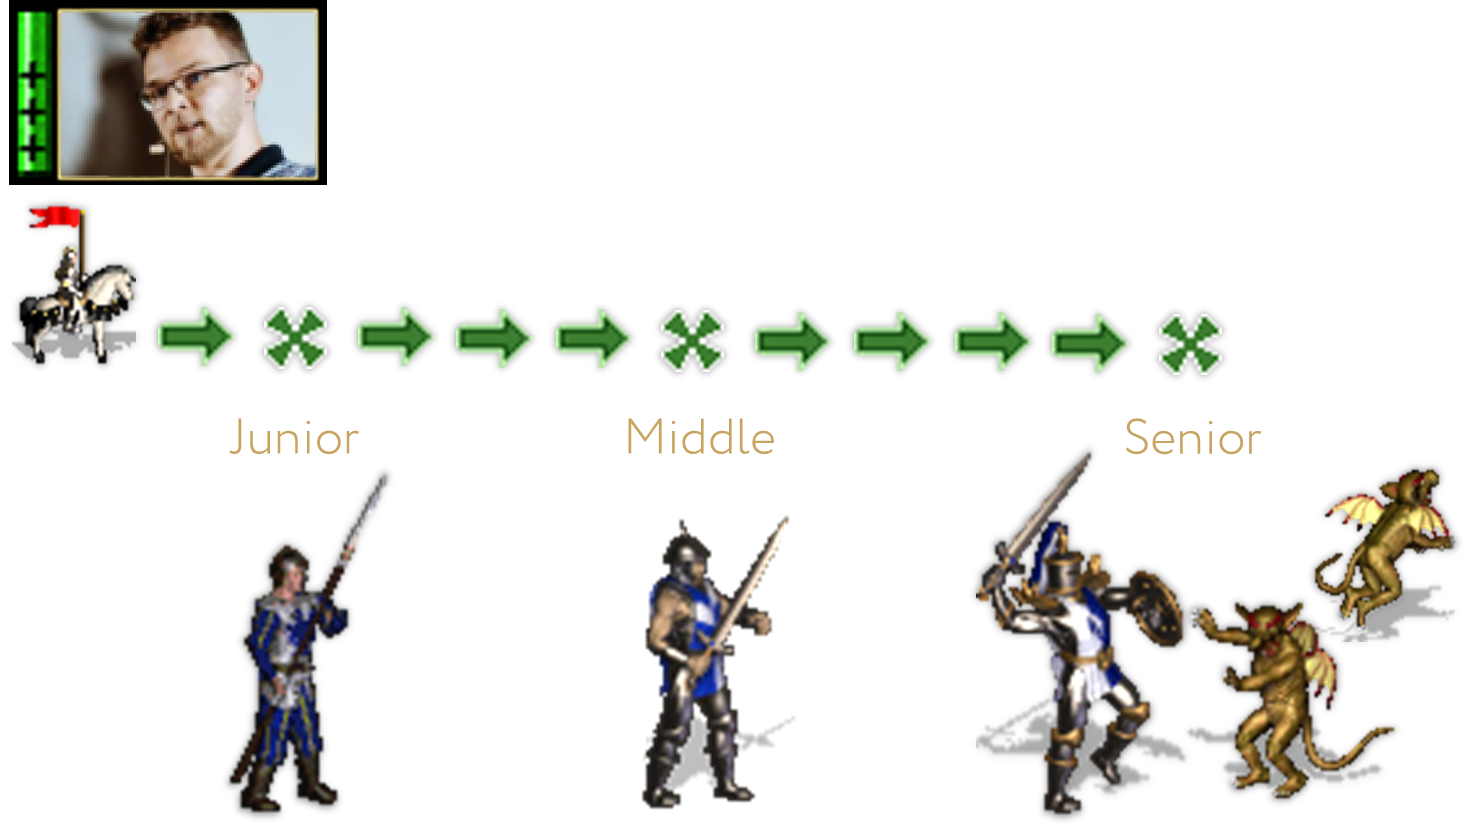
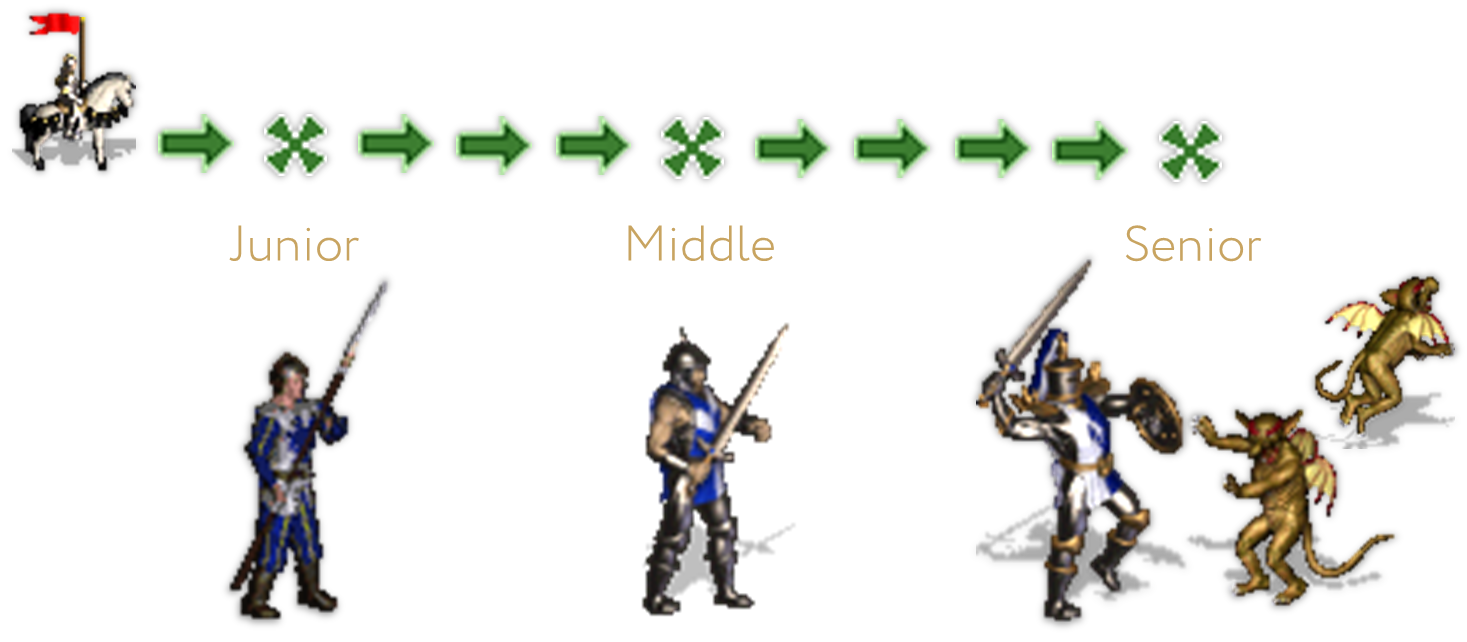
Playing with sprites.

Changed region(s): [[0.0, 0.0, 1.0, 0.9969], [0.4294, 0.4984, 0.5521, 0.9657]]

diff --git a/README.md b/README.md
@@ -1,3 +1,7 @@
+
+<h2><img align='center' src="./img/avatar-plus-plus-plus.png" width="100"> Hi, I'm Alex!</h2>
+
 ![](./img/my-way2.png)
+
 
 &ast; fyi, these nice images are from the best video game ever made: [**Heroes of Might and Magic III**](https://www.gog.com/game/heroes_of_might_and_magic_3_complete_edition) ⚔🔮
